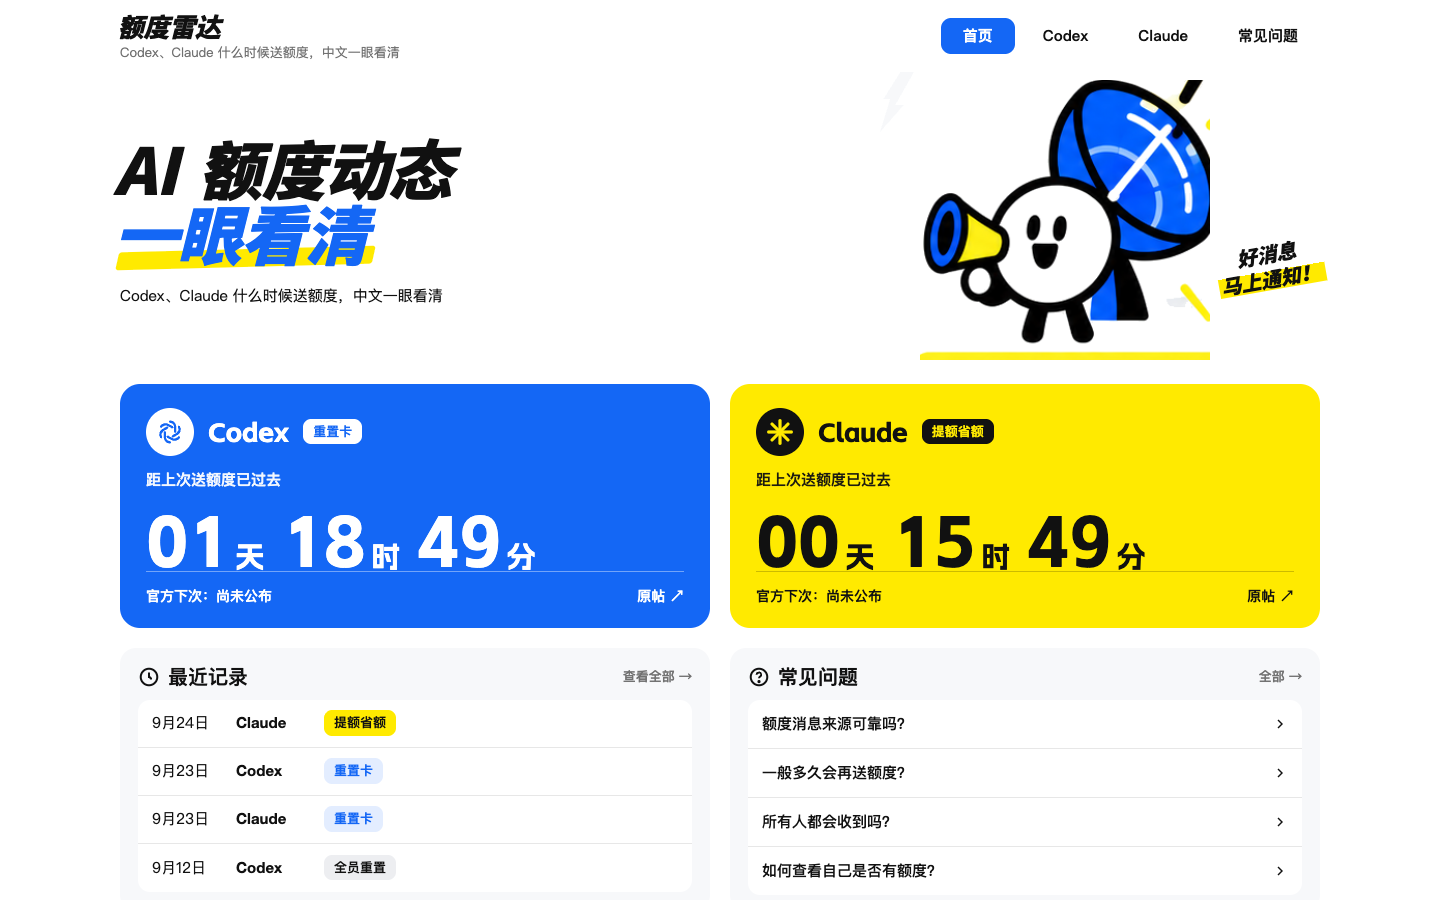
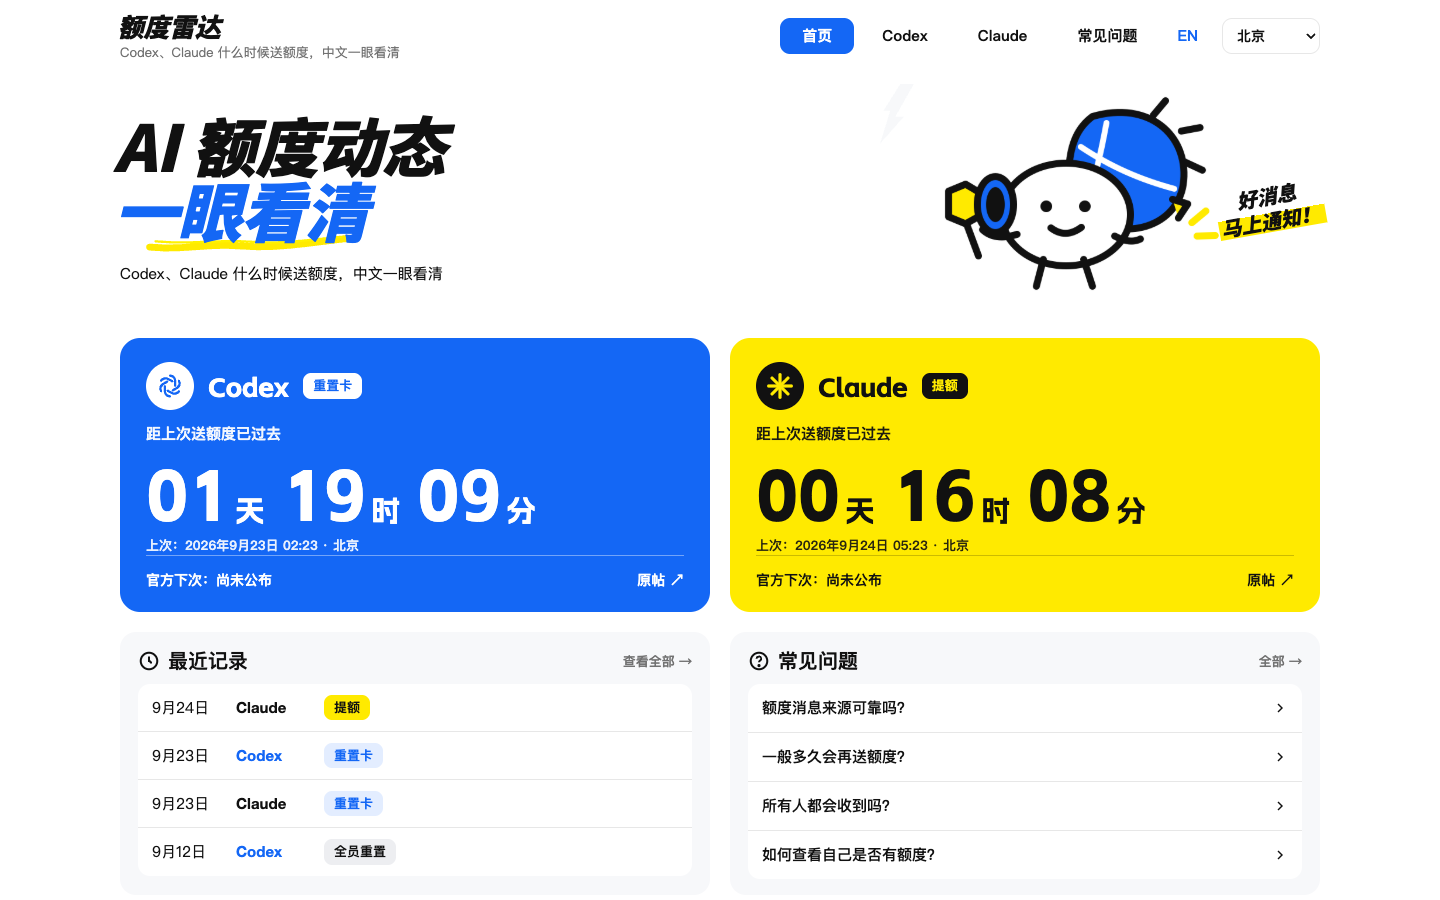
接入 GPT 素材包：透明吉祥物、手绘下划线 SVG、按 token 校准英雄区与卡片高度

diff --git a/site/styles.css b/site/styles.css
@@ -19,18 +19,18 @@ nav.main a.on{background:var(--blue);color:var(--white)}
 .burger{display:none;width:40px;height:40px;border:0;background:transparent;cursor:pointer;color:var(--blue);padding:0}
 .burger svg{width:26px;height:26px}
 /* Hero */
-.hero{position:relative;display:grid;grid-template-columns:1fr 400px;align-items:center;gap:24px;min-height:290px;padding:8px 0 8px;overflow:visible}
+.hero{position:relative;display:grid;grid-template-columns:1fr 400px;align-items:center;gap:24px;min-height:250px;padding:8px 0 8px;overflow:visible}
 .hero h2{margin:0;font:900 var(--fs-hero)/1.02 "HeroCN",var(--cn);letter-spacing:-.01em}
 .hero h2 .b{color:var(--blue);position:relative;display:inline-block;padding:0 6px 0 0;z-index:0}
-.hero h2 .b::after{content:"";position:absolute;left:-2px;right:6px;bottom:-4px;height:.28em;background:var(--yellow);z-index:-1;transform:skew(-14deg) rotate(-1.5deg);border-radius:3px}
+.hero h2 .b::after{content:"";position:absolute;left:-2px;right:0;bottom:-.22em;height:.36em;background:url(/assets/hero-underline.svg) no-repeat center/100% 100%;z-index:-1}
 .hero .sub{margin:22px 0 0;color:var(--text);font-size:15px}
-.hero .art{position:relative;width:100%;max-width:400px;justify-self:end;padding-right:110px}
+.hero .art{position:relative;width:100%;max-width:400px;justify-self:end;padding-right:96px}
 .hero .art img{width:100%;height:auto;display:block}
 .hero .sticker{position:absolute;right:-4px;bottom:70px;font:900 20px/1.25 "HeroCN",var(--cn);transform:rotate(-10deg);white-space:nowrap;text-align:center;background:linear-gradient(transparent 62%,var(--yellow) 62%);padding:0 4px}
 .hero .bolt{position:absolute;left:-40px;top:-8px;width:34px;height:60px;background:var(--panel);clip-path:polygon(60% 0,100% 0,45% 55%,70% 55%,0 100%,30% 45%,10% 45%);z-index:-1}
 /* 状态卡 */
 .quota-grid{display:grid;grid-template-columns:1fr 1fr;gap:20px;margin-top:16px}.quota-grid.one{grid-template-columns:minmax(0,560px)}
-.card{min-width:0;min-height:205px;border-radius:var(--r-card);padding:24px 26px 20px;display:flex;flex-direction:column}
+.card{min-width:0;min-height:230px;border-radius:var(--r-card);padding:24px 26px 20px;display:flex;flex-direction:column}
 .card.codex{background:var(--blue);color:var(--white)}.card.claude{background:var(--yellow);color:var(--black)}
 .card .head{display:flex;align-items:center;gap:14px}
 .card .logo{width:48px;height:48px;border-radius:50%;background:var(--white);color:var(--blue);display:grid;place-items:center;flex:none}
@@ -103,11 +103,11 @@ footer a{color:var(--text-2)}
   nav.main.open{display:flex}nav.main a{height:44px}
   .burger{display:inline-grid;place-items:center}
   body{position:relative}
-  :root{--fs-hero:38px;--fs-num:42px;--fs-name:22px}
+  :root{--fs-hero:34px;--fs-num:42px;--fs-name:22px}
   .hero{grid-template-columns:1fr auto;gap:8px;min-height:0;padding:6px 0 4px}
   .hero h2{line-height:1.05}.hero h2 .b::after{height:.26em;bottom:-2px}
   .hero .sub{display:none}
-  .hero .art{width:150px;max-width:40%;padding-right:0;align-self:end}
+  .hero .art{width:170px;max-width:44%;padding-right:0;align-self:center}
   .hero .sticker{display:none}.hero .bolt{display:none}
   .quota-grid{grid-template-columns:1fr;gap:14px;margin-top:8px}
   .card{min-height:150px;padding:18px 18px 14px}

diff --git a/reference/pack/CLAUDE_CODE_START_HERE.md b/reference/pack/CLAUDE_CODE_START_HERE.md
@@ -1,0 +1,14 @@
+# Claude Code 使用说明
+
+把整个文件夹交给 Claude Code，并明确：
+- `reference/desktop-reference.svg` 和 `reference/mobile-reference.svg` 是结构化参考，比截图优先级更高。
+- SVG 里的 x/y/width/height/font-size/rx/color 可以直接当作布局与视觉参数读取。
+- `spec/content.json` 是唯一文案源，不从图片 OCR。
+- `spec/design-tokens.json` 是统一颜色与尺寸源。
+- `assets/radar-mascot.svg` 是 Hero 插画，直接使用，不要重画。
+- `assets/hero-underline.svg` 直接使用。
+- 所有卡片、文字、数字、FAQ、列表都必须用 HTML/CSS 实现，不能整页贴图。
+- 完成后截图 1440×900 和 390×844，与 reference PNG/SVG 对照继续修正。
+
+一句话要求：
+“不要根据截图猜布局，优先读取 SVG 的真实坐标与尺寸；不要重新设计，只做高还原实现。”
